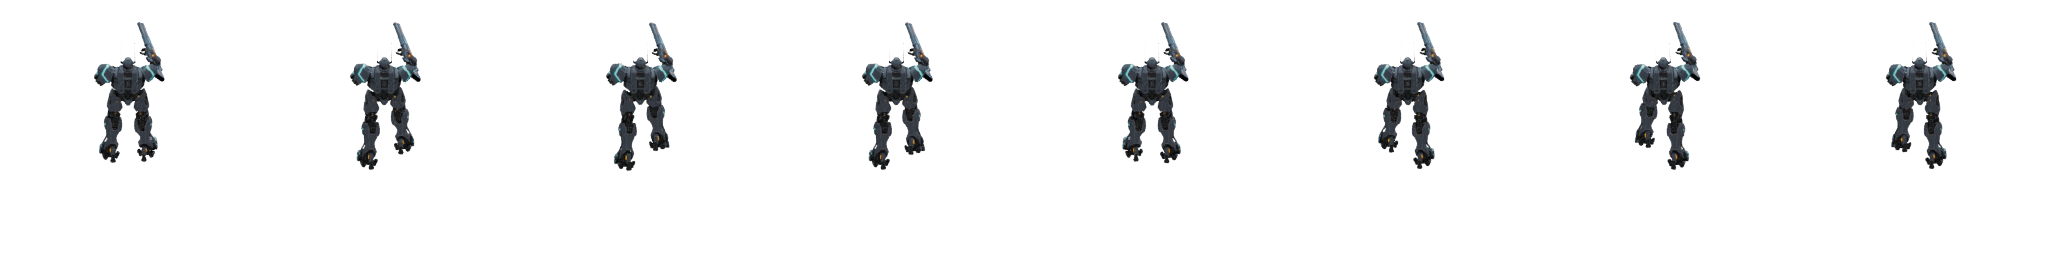
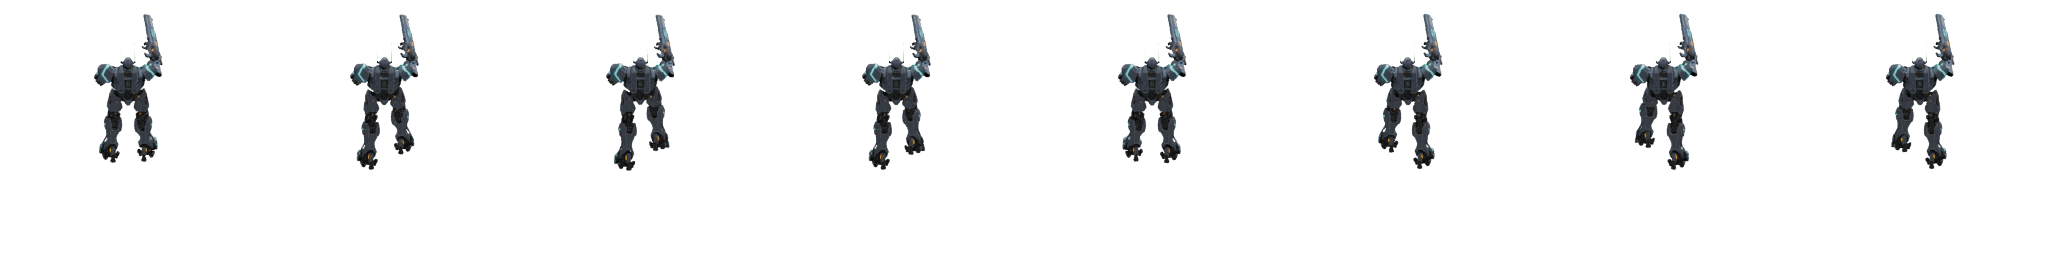
fix(mecha): fluidite de marche retablie (visee auto ne tourne plus le corps), bras de tir tendu pour Vortex de base + ancres remesurees (v11.65)

diff --git a/tools/build_vortex_gun_anims.py b/tools/build_vortex_gun_anims.py
@@ -167,11 +167,10 @@ def _legs(arm, p, amp_pitch, amp_knee):
 
 
 def aim_arm(pb):
-    # RIGHT arm thrust FORWARD so the arm-cannon points straight ahead (at the target), matching the
-    # attack pose the muzzle anchors were measured from. Used by walk/run so the cannon never reads as
-    # "pointing to the side" (the old raised-guard pose) while run-and-gunning.
-    if "RightArm" in pb: pb["RightArm"].rotation_euler = (R(-70), R(-6), R(4))
-    if "RightForeArm" in pb: pb["RightForeArm"].rotation_euler = (R(-16), 0, 0)
+    # 17/10 (patron : « le bras n'est pas tendu quand il vise ») : bras de tir TENDU (epaule a l'horizontale, coude droit) -> le canon
+    # prolonge le bras et pointe dans son axe, au lieu du bras plie d'origine (-70 / -16).
+    if "RightArm" in pb: pb["RightArm"].rotation_euler = (R(-86), R(-2), R(2))
+    if "RightForeArm" in pb: pb["RightForeArm"].rotation_euler = (0, 0, 0)
     if "Spine" in pb: pb["Spine"].rotation_euler.x = R(-6)
 
 
@@ -197,9 +196,9 @@ def pose_attack(arm, f, n):
     for b in pb: b.rotation_mode = "XYZ"
     if "Spine" in pb: pb["Spine"].rotation_euler.x = R(-6)
     # right arm THRUST FORWARD (the cannon aims), left arm braces
-    if "RightArm" in pb: pb["RightArm"].rotation_euler = (R(-70), R(-6), R(4))
-    if "RightForeArm" in pb: pb["RightForeArm"].rotation_euler = (R(-16), 0, 0)
-    if "LeftArm" in pb: pb["LeftArm"].rotation_euler = (R(-30), R(14), R(-10))
+    if "RightArm" in pb: pb["RightArm"].rotation_euler = (R(-86), R(-2), R(2))
+    if "RightForeArm" in pb: pb["RightForeArm"].rotation_euler = (0, 0, 0)
+    if "LeftArm" in pb: pb["LeftArm"].rotation_euler = (R(-38), R(18), R(-10))
     if "LeftForeArm" in pb: pb["LeftForeArm"].rotation_euler = (R(-52), 0, 0)
     rec = R(10) * max(0.0, math.sin(2 * math.pi * f / n))
     if "RightArm" in pb: pb["RightArm"].rotation_euler.x += rec
